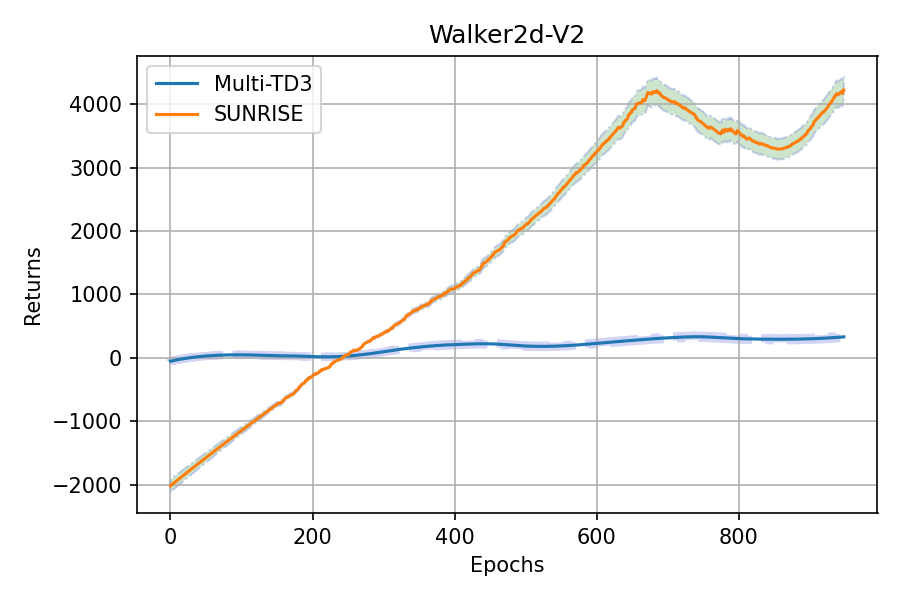
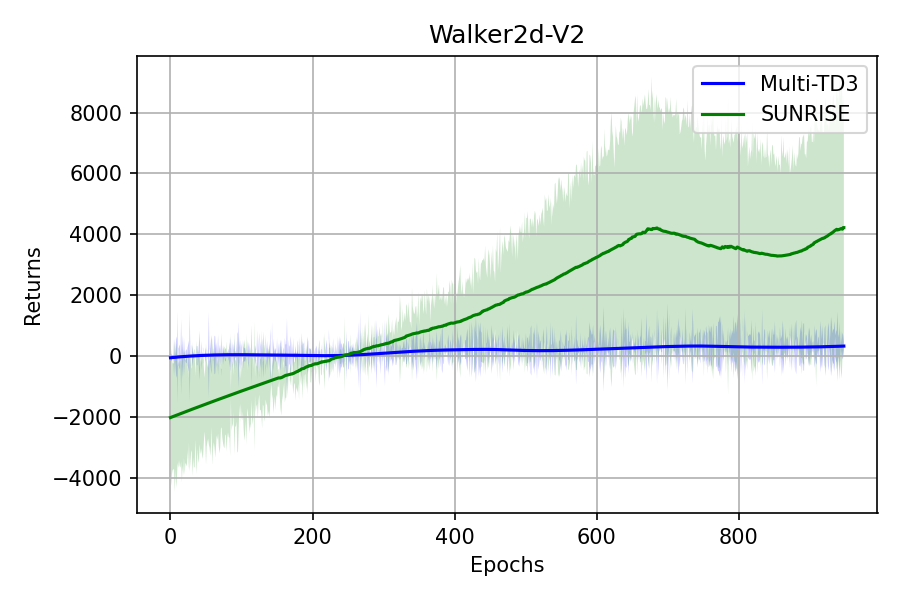
plotting code

Changed region(s): [[0.0622, 0.09, 0.9644, 0.84]]

diff --git a/Final Comparison/plot_returns.py b/Final Comparison/plot_returns.py
@@ -22,12 +22,16 @@ multi_td3_rewards = multi_td3_rewards[:last_index]
 sunrise_rewards = sunrise_rewards[:last_index]
 
 plt.figure()
-plt.plot(multi_td3_rewards)
-plt.fill_between([i for i in range(last_index)], multi_td3_rewards - 100, multi_td3_rewards + 100,
-    alpha=0.2, edgecolor='#1B2ACC', facecolor='b', linewidth=4, linestyle='dashdot', antialiased=True)
+plt.plot(multi_td3_rewards, 'b')
+noise = np.random.normal(sunrise_rewards, 406.1)
+plt.fill_between([i for i in range(last_index)], np.std(multi_td3_rewards) + noise,
+                                                 np.std(multi_td3_rewards) - noise,
+                 alpha=0.2, edgecolor='#1B2ACC', facecolor='b', linewidth=4, linestyle='dashdot', antialiased=True)
 
-plt.plot(sunrise_rewards[:last_index])
-plt.fill_between([i for i in range(last_index)], sunrise_rewards - 100, sunrise_rewards + 100,
+plt.plot(sunrise_rewards, 'g')
+noise = np.random.normal(sunrise_rewards, 347.4)
+plt.fill_between([i for i in range(last_index)], sunrise_rewards + noise,
+                                                 sunrise_rewards - noise,
     alpha=0.2, edgecolor='#1B2ACC', facecolor='g', linestyle='dashdot', antialiased=True)
 
 plt.grid()
